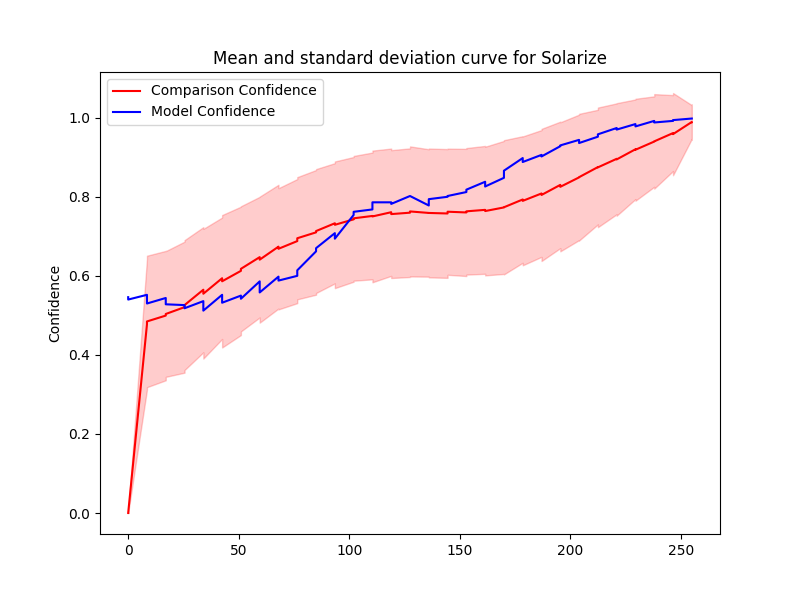
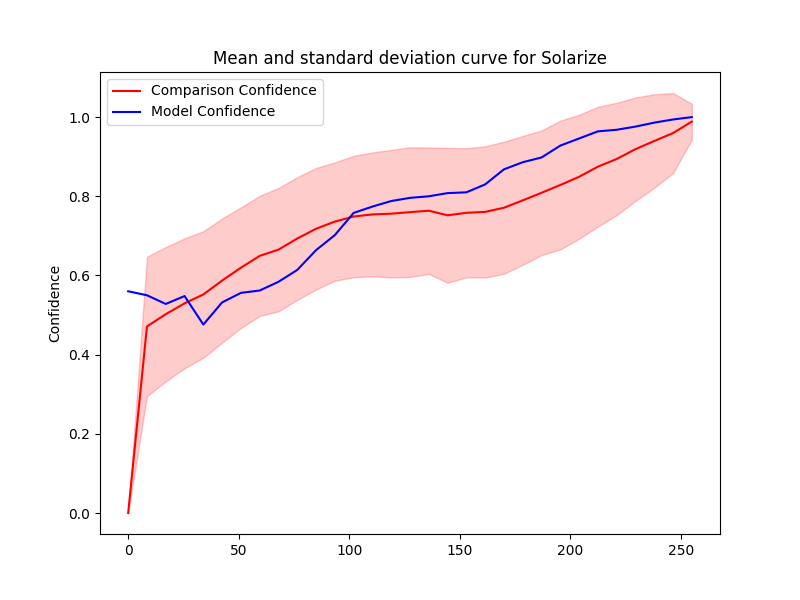
ready for third exp

diff --git a/utils/custom_trivial_augment.py b/utils/custom_trivial_augment.py
@@ -451,70 +451,70 @@ class CTrivialAugmentWide(torch.nn.Module):
         self.interpolation = interpolation
         self.fill = fill
         """MODIFICATION: Add severity"""
-        self.severity = severity
-        self.augmentation_name = augmentation_name
-        self.get_signed = get_signed
+        # self.severity = severity
+        # self.augmentation_name = augmentation_name
+        # self.get_signed = get_signed
         """MODIFICATION: Add severity"""
 
     def _augmentation_space(self, num_bins: int) -> Dict[str, Tuple[Tensor, bool]]:
-        # return {
-        #     # op_name: (magnitudes, signed)
-        #     "Identity": (torch.tensor(0.0), False),
-        #     "ShearX": (torch.linspace(0.0, 0.99, num_bins), True),
-        #     "ShearY": (torch.linspace(0.0, 0.99, num_bins), True),
-        #     "TranslateX": (torch.linspace(0.0, 32.0, num_bins), True),
-        #     "TranslateY": (torch.linspace(0.0, 32.0, num_bins), True),
-        #     "Rotate": (torch.linspace(0.0, 135.0, num_bins), True),
-        #     "Brightness": (torch.linspace(0.0, 0.99, num_bins), True),
-        #     "Color": (torch.linspace(0.0, 0.99, num_bins), True),
-        #     "Contrast": (torch.linspace(0.0, 0.99, num_bins), True),
-        #     "Sharpness": (torch.linspace(0.0, 0.99, num_bins), True),
-        #     "Posterize": (
-        #         8 - (torch.arange(num_bins) / ((num_bins - 1) / 6)).round().int(),
-        #         False,
-        #     ),
-        #     "Solarize": (torch.linspace(255.0, 0.0, num_bins), False),
-        #     "AutoContrast": (torch.tensor(0.0), False),
-        #     "Equalize": (torch.tensor(0.0), False),
-        # }
+        return {
+            # op_name: (magnitudes, signed)
+            "Identity": (torch.tensor(0.0), False),
+            "ShearX": (torch.linspace(0.0, 0.99, num_bins), True),
+            "ShearY": (torch.linspace(0.0, 0.99, num_bins), True),
+            "TranslateX": (torch.linspace(0.0, 32.0, num_bins), True),
+            "TranslateY": (torch.linspace(0.0, 32.0, num_bins), True),
+            "Rotate": (torch.linspace(0.0, 135.0, num_bins), True),
+            "Brightness": (torch.linspace(0.0, 0.99, num_bins), True),
+            "Color": (torch.linspace(0.0, 0.99, num_bins), True),
+            "Contrast": (torch.linspace(0.0, 0.99, num_bins), True),
+            "Sharpness": (torch.linspace(0.0, 0.99, num_bins), True),
+            "Posterize": (
+                8 - (torch.arange(num_bins) / ((num_bins - 1) / 6)).round().int(),
+                False,
+            ),
+            "Solarize": (torch.linspace(255.0, 0.0, num_bins), False),
+            "AutoContrast": (torch.tensor(0.0), False),
+            "Equalize": (torch.tensor(0.0), False),
+        }
         # print(f'augmentation_name: {self.augmentation_name}\tseverity: {self.severity}')
-        if self.augmentation_name == "Identity":
-            return {"Identity": (torch.tensor(0.0), False)}
-        elif self.augmentation_name == "ShearX":
-            return {"ShearX": (torch.linspace(0.0, 0.99, num_bins), True)}
-        elif self.augmentation_name == "ShearY":
-            return {"ShearY": (torch.linspace(0.0, 0.99, num_bins), True)}
-        elif self.augmentation_name == "TranslateX":
-            return {"TranslateX": (torch.linspace(0.0, 32.0, num_bins), True)}
-        elif self.augmentation_name == "TranslateY":
-            return {"TranslateY": (torch.linspace(0.0, 32.0, num_bins), True)}
-        elif self.augmentation_name == "Rotate":
-            return {"Rotate": (torch.linspace(0.0, 135.0, num_bins), True)}
-        elif self.augmentation_name == "Brightness":
-            return {"Brightness": (torch.linspace(0.0, 0.99, num_bins), True)}
-        elif self.augmentation_name == "Color":
-            return {"Color": (torch.linspace(0.0, 0.99, num_bins), True)}
-        elif self.augmentation_name == "Contrast":
-            return {"Contrast": (torch.linspace(0.0, 0.99, num_bins), True)}
-        elif self.augmentation_name == "Sharpness":
-            return {"Sharpness": (torch.linspace(0.0, 0.99, num_bins), True)}
-        elif self.augmentation_name == "Posterize":
-            return {
-                "Posterize": (
-                    8 - (torch.arange(num_bins) / ((num_bins - 1) / 6)).round().int(),
-                    False,
-                )
-            }
-        elif self.augmentation_name == "Solarize":
-            return {"Solarize": (torch.linspace(255.0, 0.0, num_bins), False)}
-        elif self.augmentation_name == "AutoContrast":
-            return {"AutoContrast": (torch.tensor(0.0), False)}
-        elif self.augmentation_name == "Equalize":
-            return {"Equalize": (torch.tensor(0.0), False)}
-        else:
-            raise ValueError(
-                f"The provided operator {self.augmentation_name} is not recognized."
-            )
+        # if self.augmentation_name == "Identity":
+        #     return {"Identity": (torch.tensor(0.0), False)}
+        # elif self.augmentation_name == "ShearX":
+        #     return {"ShearX": (torch.linspace(0.0, 0.99, num_bins), True)}
+        # elif self.augmentation_name == "ShearY":
+        #     return {"ShearY": (torch.linspace(0.0, 0.99, num_bins), True)}
+        # elif self.augmentation_name == "TranslateX":
+        #     return {"TranslateX": (torch.linspace(0.0, 32.0, num_bins), True)}
+        # elif self.augmentation_name == "TranslateY":
+        #     return {"TranslateY": (torch.linspace(0.0, 32.0, num_bins), True)}
+        # elif self.augmentation_name == "Rotate":
+        #     return {"Rotate": (torch.linspace(0.0, 135.0, num_bins), True)}
+        # elif self.augmentation_name == "Brightness":
+        #     return {"Brightness": (torch.linspace(0.0, 0.99, num_bins), True)}
+        # elif self.augmentation_name == "Color":
+        #     return {"Color": (torch.linspace(0.0, 0.99, num_bins), True)}
+        # elif self.augmentation_name == "Contrast":
+        #     return {"Contrast": (torch.linspace(0.0, 0.99, num_bins), True)}
+        # elif self.augmentation_name == "Sharpness":
+        #     return {"Sharpness": (torch.linspace(0.0, 0.99, num_bins), True)}
+        # elif self.augmentation_name == "Posterize":
+        #     return {
+        #         "Posterize": (
+        #             8 - (torch.arange(num_bins) / ((num_bins - 1) / 6)).round().int(),
+        #             False,
+        #         )
+        #     }
+        # elif self.augmentation_name == "Solarize":
+        #     return {"Solarize": (torch.linspace(255.0, 0.0, num_bins), False)}
+        # elif self.augmentation_name == "AutoContrast":
+        #     return {"AutoContrast": (torch.tensor(0.0), False)}
+        # elif self.augmentation_name == "Equalize":
+        #     return {"Equalize": (torch.tensor(0.0), False)}
+        # else:
+        #     raise ValueError(
+        #         f"The provided operator {self.augmentation_name} is not recognized."
+        #     )
 
     def forward(self, img: Tensor) -> Tensor:
         """
@@ -537,20 +537,20 @@ class CTrivialAugmentWide(torch.nn.Module):
         magnitudes, signed = op_meta[op_name]
 
         """MODIFCATION: Set magnitude and remove signed"""
-        # magnitude = (
-        #     float(
-        #         magnitudes[
-        #             torch.randint(len(magnitudes), (1,), dtype=torch.long)
-        #         ].item()
-        #     )
-        #     if magnitudes.ndim > 0
-        #     else 0.0
-        # )
-        # if signed and torch.randint(2, (1,)):
-        #     magnitude *= -1.0
-        magnitude = float(magnitudes[self.severity].item())
-        if self.get_signed and op_name not in ['Solarize', 'Posterize']:
+        magnitude = (
+            float(
+                magnitudes[
+                    torch.randint(len(magnitudes), (1,), dtype=torch.long)
+                ].item()
+            )
+            if magnitudes.ndim > 0
+            else 0.0
+        )
+        if signed and torch.randint(2, (1,)):
             magnitude *= -1.0
+        # magnitude = float(magnitudes[self.severity].item())
+        # if self.get_signed and op_name not in ['Solarize', 'Posterize']:
+        #     magnitude *= -1.0
         """MODIFICATION: Set magnitude and remove signed"""
 
 

diff --git a/augmentations/trivial_augment.py b/augmentations/trivial_augment.py
@@ -85,51 +85,51 @@ class CustomTrivialAugmentWide:
         # confidence_aa = comparison_metrics.spatial_correlation_coefficient(im, augment_im)
 
         # Universal Image Quality Index calculation
-        confidence_aa = comparison_metrics.universal_image_quality_index(im, augment_im)
+        # confidence_aa = comparison_metrics.universal_image_quality_index(im, augment_im)
 
         # Visual Information Fidelity calculation
         # confidence_aa = comparison_metrics.visual_information_fidelity(im, augment_im)
 
-        # if augmentation_type == 'ShearX':
-        #     confidence_aa = comparison_metrics.gaussian(
-        #         augmentation_magnitude, a=1.0, b=0.0, c=0.56)
-        # elif augmentation_type == 'ShearY':
-        #     confidence_aa = comparison_metrics.gaussian(
-        #         augmentation_magnitude, a=1.0, b=0.02, c=0.56)
-        # elif augmentation_type == 'TranslateX':
-        #     dim1, dim2 = im.size[0], im.size[1]
-        #     tx = augment_info[augmentation_type]
-        #     # print(f'dim1: {dim1}, dim2: {dim2}, tx: {tx}')
-        #     random_crop = RandomCrop()
-        #     visibility = random_crop.compute_visibility(
-        #         dim1=dim1, dim2=dim2, tx=tx, ty=0
-        #     )
-        #     k = 3
-        #     confidence_aa = 1 - (1 - self.chance) * (1 - visibility) ** k
-        # elif augmentation_type == 'TranslateY':
-        #     dim1, dim2 = im.size[0], im.size[1]
-        #     ty = augment_info[augmentation_type]
-        #     random_crop = RandomCrop()
-        #     visibility = random_crop.compute_visibility(
-        #         dim1=dim1, dim2=dim2, tx=0, ty=ty
-        #     )
-        #     k = 2
-        #     confidence_aa = 1 - (1 - self.chance) * (1 - visibility) ** k
-        # elif augmentation_type == 'Brightness':
-        #     # confidence_aa = comparison_metrics.custom_function(augmentation_magnitude, 1.2438093, 7.18937766, -0.87255438, -0.0573816, -0.2456411)
-        #     confidence_aa = comparison_metrics.sigmoid(
-        #         augmentation_magnitude, 0.9753, 17.0263, -0.8297)
-        # elif augmentation_type == 'Contrast':
-        #     confidence_aa = comparison_metrics.sigmoid(
-        #         augmentation_magnitude, 0.9914758, 13.89562814, -0.82550186)
-        # elif augmentation_type == 'Color':
-        #     confidence_aa = comparison_metrics.sigmoid(
-        #         augmentation_magnitude, 1.0, 4.93537641, -1.5837580)
-        # elif augmentation_type == 'Sharpness':
-        #     confidence_aa = comparison_metrics.sigmoid(
-        #         augmentation_magnitude, 0.9995181, 7.07685057, -1.24349678)
-        # else:
-        #     confidence_aa = 1.0
+        if augmentation_type == 'ShearX':
+            confidence_aa = comparison_metrics.gaussian(
+                augmentation_magnitude, a=1.0, b=0.0, c=0.56)
+        elif augmentation_type == 'ShearY':
+            confidence_aa = comparison_metrics.gaussian(
+                augmentation_magnitude, a=1.0, b=0.02, c=0.56)
+        elif augmentation_type == 'TranslateX':
+            dim1, dim2 = im.size[0], im.size[1]
+            tx = augment_info[augmentation_type]
+            # print(f'dim1: {dim1}, dim2: {dim2}, tx: {tx}')
+            random_crop = RandomCrop()
+            visibility = random_crop.compute_visibility(
+                dim1=dim1, dim2=dim2, tx=tx, ty=0
+            )
+            k = 3
+            confidence_aa = 1 - (1 - self.chance) * (1 - visibility) ** k
+        elif augmentation_type == 'TranslateY':
+            dim1, dim2 = im.size[0], im.size[1]
+            ty = augment_info[augmentation_type]
+            random_crop = RandomCrop()
+            visibility = random_crop.compute_visibility(
+                dim1=dim1, dim2=dim2, tx=0, ty=ty
+            )
+            k = 2
+            confidence_aa = 1 - (1 - self.chance) * (1 - visibility) ** k
+        elif augmentation_type == 'Brightness':
+            # confidence_aa = comparison_metrics.custom_function(augmentation_magnitude, 1.2438093, 7.18937766, -0.87255438, -0.0573816, -0.2456411)
+            confidence_aa = comparison_metrics.sigmoid(
+                augmentation_magnitude, 0.9753, 17.0263, -0.8297)
+        elif augmentation_type == 'Contrast':
+            confidence_aa = comparison_metrics.sigmoid(
+                augmentation_magnitude, 0.9914758, 13.89562814, -0.82550186)
+        elif augmentation_type == 'Color':
+            confidence_aa = comparison_metrics.sigmoid(
+                augmentation_magnitude, 1.0, 4.93537641, -1.5837580)
+        elif augmentation_type == 'Sharpness':
+            confidence_aa = comparison_metrics.sigmoid(
+                augmentation_magnitude, 0.9995181, 7.07685057, -1.24349678)
+        else:
+            confidence_aa = 1.0
 
         # print(f"\nAugmentation info: {augment_info}\tconf: {confidence_aa}\n")
         return augment_im, list((augmentation_magnitude, confidence_aa))

diff --git a/utils/plot_non_linear_curve.py b/utils/plot_non_linear_curve.py
@@ -3,7 +3,7 @@ import os
 import csv
 import pandas as pd
 
-COMPARISON_METRIC = 'uiq'
+COMPARISON_METRIC = 'ncc'
 
 
 def get_mean_std(confidences_tensor):
@@ -65,6 +65,9 @@ def plot_mean_std_from_csv(csv_file, augmentation_type=None):
     std = df['Std'].tolist()
     model_confidences = df['Accuracy'].tolist()
     augmentation_magnitudes = df['Severity'].tolist()
+
+    # if augmentation_type=='Solarize':
+    #     augmentation_magnitudes.reverse()
     
     # Create folder if it doesn't exist
     folder_name = f'/home/ekagra/Documents/GitHub/MasterArbeit/non_linear_mapping_data/{augmentation_type}'
@@ -84,14 +87,14 @@ def plot_mean_std_from_csv(csv_file, augmentation_type=None):
     plt.title(f"Mean and standard deviation curve for {augmentation_type}")
     plt.legend()
     plt.savefig(filename)
-    # plt.show()
+    plt.show()
 
 
 # Example usage:
 if __name__ == "__main__":
-    mean = [0.5, 0.6, 0.9, 0.8, 0.7]
-    std = [1.0, 1.0, 0.3, 0.4, 0.5]
-    model_confidences = [0.9, 0.8, 0.7, 0.6, 0.5]
-    augmentation_magnitudes = [1, 2, 3, 4, 5]
+    # mean = [0.5, 0.6, 0.9, 0.8, 0.7]
+    # std = [1.0, 1.0, 0.3, 0.4, 0.5]
+    # model_confidences = [0.9, 0.8, 0.7, 0.6, 0.5]
+    # augmentation_magnitudes = [1, 2, 3, 4, 5]
     # plot_mean_std(mean, std, model_confidences, "Brightness", augmentation_magnitudes)
-    plot_mean_std_from_csv('/home/ekagra/Documents/GitHub/MasterArbeit/non_linear_mapping_data/Brightness/Brightness_ssim_results.csv', 'Brightness')
+    plot_mean_std_from_csv('/home/ekagra/Documents/GitHub/MasterArbeit/non_linear_mapping_data/Solarize/Solarize_ncc_results.csv', 'Solarize')

diff --git a/augment_dataset.py b/augment_dataset.py
@@ -145,7 +145,7 @@ def create_transforms(
 def load_data(
     transforms_preprocess,
     transforms_augmentation=None,
-    dataset_split: Optional[int] = 100,
+    dataset_split: Optional[int] = 'full',
 ) -> Optional[tuple]:
     """Loads and prepares the CIFAR-10 dataset with specified transformations.
 

diff --git a/non_linear_mapping.py b/non_linear_mapping.py
@@ -96,7 +96,7 @@ if __name__ == "__main__":
         # "Color",
         # "Contrast",
         # "Sharpness",
-        "Posterize",
+        # "Posterize",
         "Solarize",
         # "AutoContrast",
         # "Equalize",
